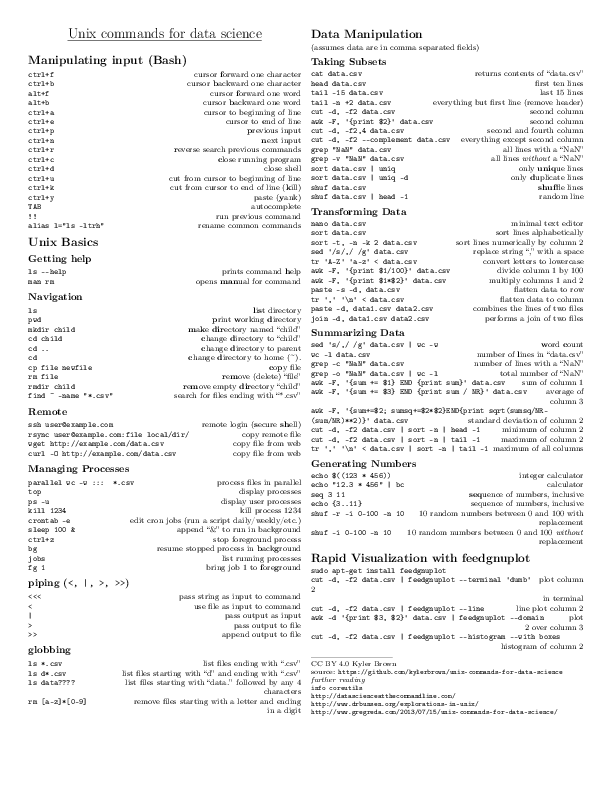
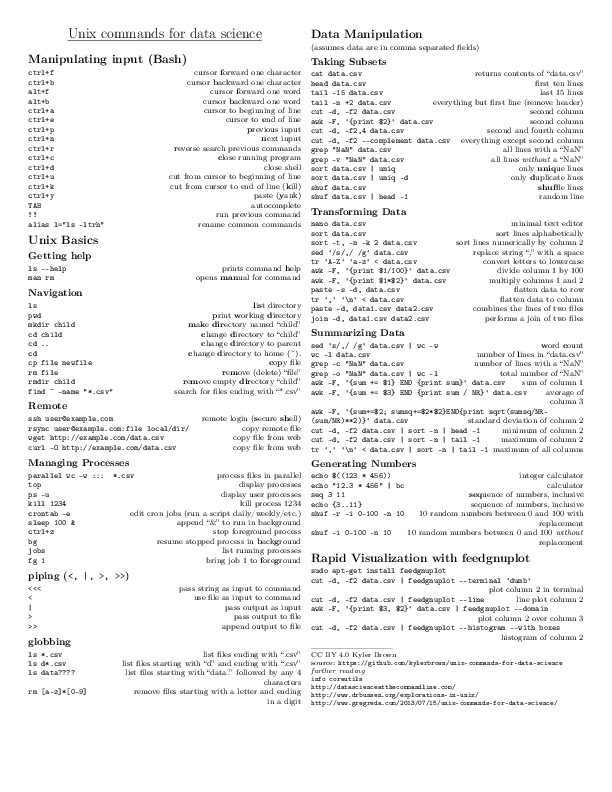
fixing typos/layout

diff --git a/unix-commands-for-data-science.tex b/unix-commands-for-data-science.tex
@@ -203,11 +203,11 @@
 
 \section{Rapid Visualization with \href{https://github.com/dkogan/feedgnuplot}{feedgnuplot}}
 {\tt sudo apt-get install feedgnuplot}\\
-{\tt cut -d, -f2  data.csv | feedgnuplot -{}-terminal \q dumb\q} \hfill plot column 2\\
-	\hfill in terminal\\
+{\tt cut -d, -f2 data.csv | feedgnuplot -{}-terminal \q dumb\q} \\
+	\hfill plot column 2 in terminal\\
 {\tt  cut -d, -f2  data.csv | feedgnuplot -{}-line} \hfill line plot column 2\\
-{\tt awk -d \q\{print \$3, \$2\}\q\  data.csv | feedgnuplot -{}-domain} \hfill plot \\
-	\hfill 2 over column 3\\
+{\tt awk -F, \q\{print \$3, \$2\}\q\  data.csv | feedgnuplot -{}-domain} \\
+	\hfill plot column 2 over column 3\\
 {\tt cut -d, -f2   data.csv | feedgnuplot -{}-histogram -{}-with boxes}\\
 	\hfill histogram of column 2\\
 
